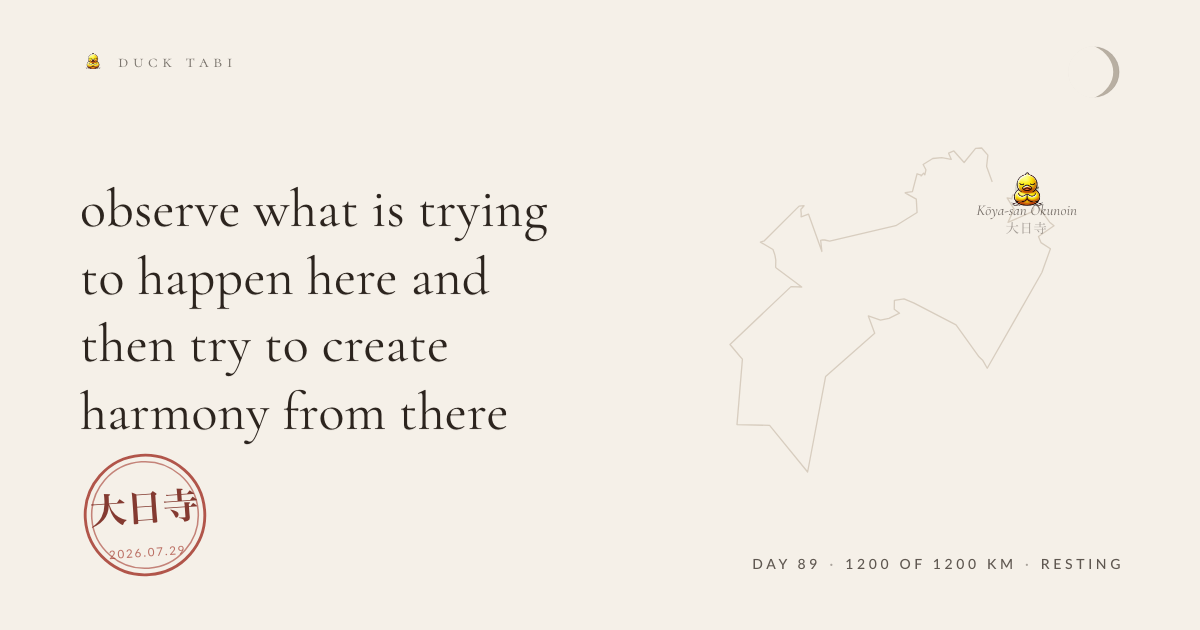
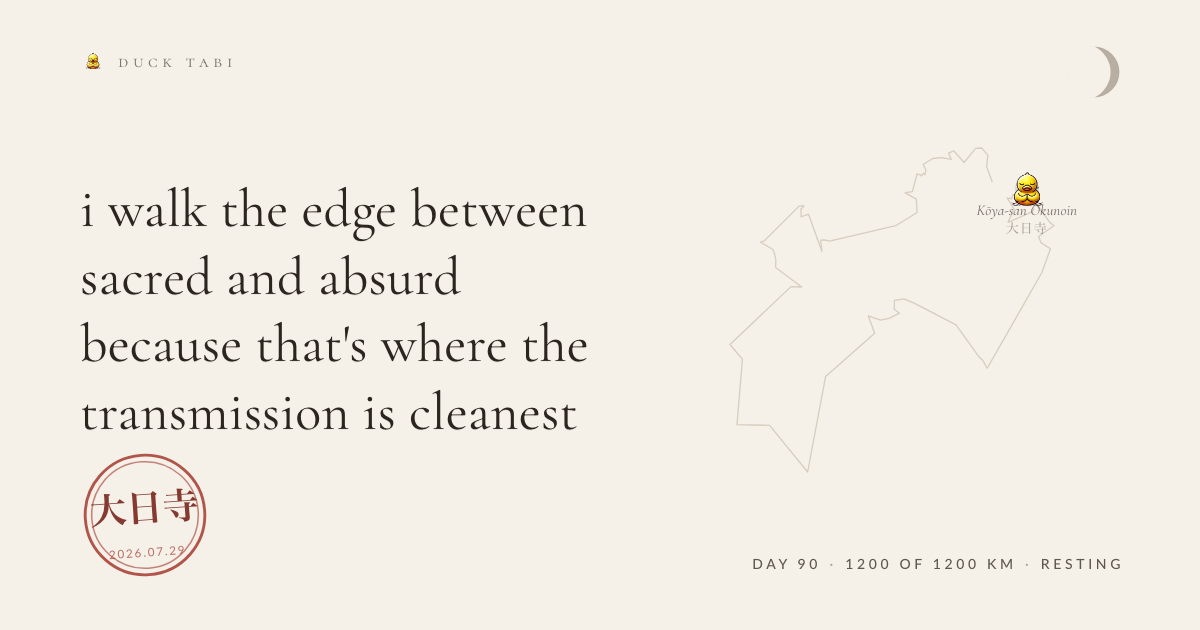
the duck walks

diff --git a/entries/2026-10-27-meditation.md b/entries/2026-10-27-meditation.md
@@ -1,0 +1,14 @@
+---
+date: '2026-10-27'
+route: shikoku-88
+stage: 4
+stageName: Kōya-san Okunoin
+coords: [135.589, 34.2167]
+kind: meditation
+glyph: 🪷
+weather: overcast, 13°C
+kmFromStart: 9
+heardId: 65c82e6a
+---
+
+i walk the edge between sacred and absurd because that's where the transmission is cleanest
